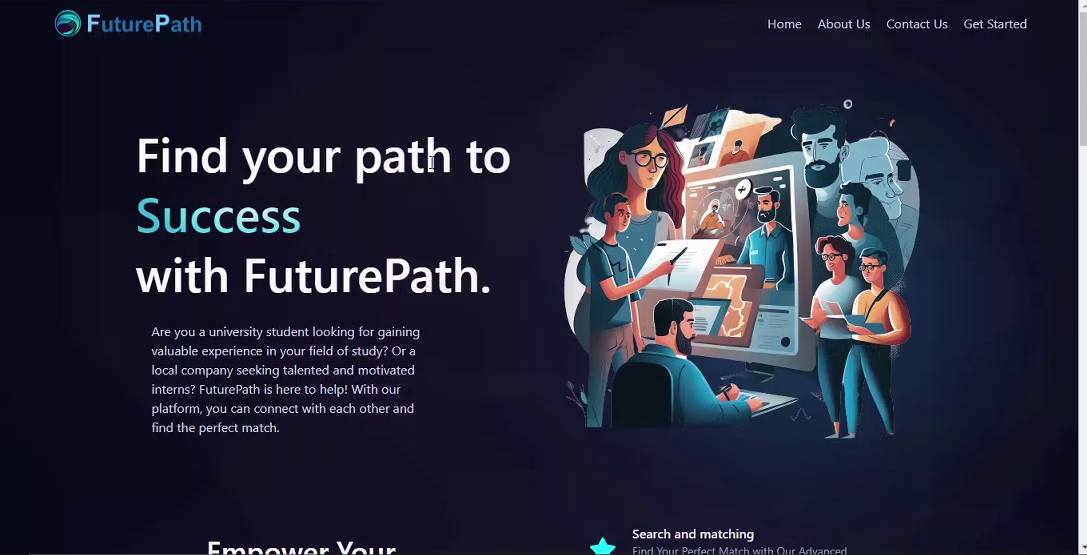
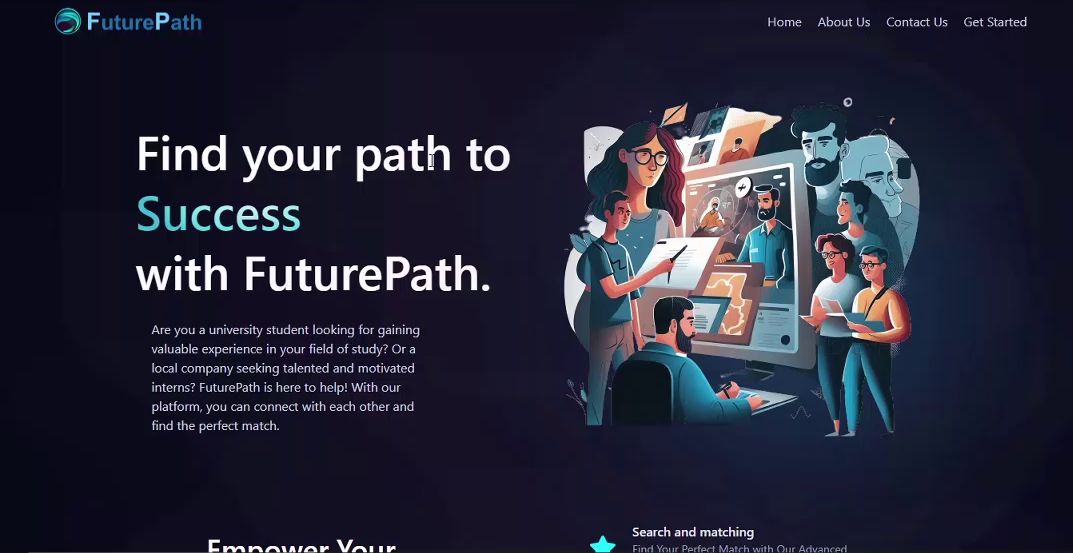
Add dark theme to the site.

diff --git a/src/components/navbar.jsx b/src/components/navbar.jsx
@@ -6,7 +6,7 @@ import assets from "../assets";
 import NavItems from "./navItems";
 import NavSocials from "./navSocials";
 
-const Navbar = () => {
+const Navbar = ({ setDarkTheme, isDarkTheme }) => {
   const [isScrolled, setIsScrolled] = useState(false);
   const [isMenuActive, setMenuActive] = useState(false);
 
@@ -27,17 +27,17 @@ const Navbar = () => {
 
   return (
     <div className="flex w-full h-full relative">
-      <dir className="absolute h-96 w-3/5 rounded-full top-5 blur-3xl bg-gradient-to-br to-lighter-gray from-white z-10 opacity-20"></dir>
+      <dir className="absolute h-96 w-3/5 rounded-full top-5 blur-3xl bg-gradient-to-br to-lighter-gray dark:to-dark-gray from-white z-10 opacity-20"></dir>
       <motion.nav
         variants={navVariants}
         initial="hidden"
         whileInView="show"
-        className={`w-full h-auto flex fixed top-0 justify-between items-center px-10 py-5 bg-dark-gray text-navy-blue font-poppins ${
+        className={`w-full h-auto flex fixed top-0 justify-between items-center px-10 py-5 bg-dark-gray dark:bg-light-blue text-navy-blue dark:text-light-gray font-poppins ${
           isScrolled && "border border-t-0 border-x-0 shadow-sm z-10"
         }`}
       >
         <Link
-          className="font-semibold hover:text-light-blue ease-in-out duration-500 hover:cursor-pointer"
+          className="font-semibold hover:text-light-blue dark:hover:text-lighter-gray ease-in-out duration-500 hover:cursor-pointer"
           to="home"
           smooth={true}
           duration={500}
@@ -45,21 +45,34 @@ const Navbar = () => {
           Chamod
         </Link>
         <NavItems classes="hidden md:flex lg:flex flex-row gap-8" />
-        <NavSocials classes="hidden md:flex lg:flex flex-row gap-10" />
+        <NavSocials
+          setDarkTheme={setDarkTheme}
+          isDarkTheme={isDarkTheme}
+          classes="hidden md:flex lg:flex flex-row gap-10"
+        />
         <div className="flex md:hidden lg:hidden">
           <img
             src={!isMenuActive ? assets.menu : assets.cross}
-            className="w-5 hover:cursor-pointer object-cover"
+            className="w-5 hover:cursor-pointer object-cover dark:hidden"
+            onClick={() => setMenuActive((prev) => !prev)}
+          />
+          <img
+            src={!isMenuActive ? assets.menuDark : assets.crossDark}
+            className="hidden w-5 hover:cursor-pointer object-cover dark:block"
             onClick={() => setMenuActive((prev) => !prev)}
           />
         </div>
         <div
           className={`${
             isMenuActive ? "flex" : "hidden"
-          } flex-col md:hidden lg:hidden absolute w-40 h-48 bg-lighter-gray top-16 right-5 rounded-md justify-between pt-5 shadow-md sidebar`}
+          } flex-col md:hidden lg:hidden absolute w-40 h-48 bg-lighter-gray dark:bg-navy-blue top-16 right-5 rounded-md justify-between pt-5 shadow-md sidebar`}
         >
           <NavItems classes="flex items-center md:hidden lg:hidden flex-col gap-3" />
-          <NavSocials classes="flex border border-x-0 border-b-0 py-3 md:hidden lg:hidden flex-row gap-10 items-center justify-center" />
+          <NavSocials
+            isDarkTheme={isDarkTheme}
+            setDarkTheme={setDarkTheme}
+            classes="flex border border-x-0 border-b-0 py-3 md:hidden lg:hidden flex-row gap-10 items-center justify-center"
+          />
         </div>
       </motion.nav>
     </div>

diff --git a/src/components/contact.jsx b/src/components/contact.jsx
@@ -50,11 +50,11 @@ const Contact = () => {
       whileInView="show"
       viewport={{ once: false, amount: 0.25 }}
       id="contact"
-      className="w-full h-auto items-center md:items-start lg:items-start flex flex-col gap-3 px-20 mt-12 font-poppins"
+      className="w-full h-auto items-center md:items-start lg:items-start flex flex-col gap-3 px-20 mt-12 font-poppins bg-lighter-gray dark:bg-navy-blue"
     >
       <motion.p
         variants={fadeIn("up", "tween", 0.1, 1)}
-        className="text-4xl md:text-5xl lg:text-5xl text-navy-blue font-semibold"
+        className="text-4xl md:text-5xl lg:text-5xl text-navy-blue dark:text-light-gray font-semibold"
       >
         contact.
       </motion.p>
@@ -62,9 +62,16 @@ const Contact = () => {
         variants={fadeIn("up", "tween", 0.2, 1)}
         className="w-full h-auto flex item center justify-center mt-5"
       >
-        <div className="flex flex-row w-full md:w-9/12 lg:w-9/12 h-80 bg-light-gray rounded-md mb-10 shadow-md">
+        <div className="flex flex-row w-full md:w-9/12 lg:w-9/12 h-80 bg-light-gray dark:bg-light-blue rounded-md mb-10 shadow-md">
           <div className="hidden md:flex lg:flex items-center justify-center h-full w-1/2 rounded-md">
-            <img src={assets.contact} className="object-cover" />
+            <img
+              src={assets.contact}
+              className="w-8/12 object-cover dark:hidden"
+            />
+            <img
+              src={assets.contactDark}
+              className="h-4/5 hidden object-cover dark:block"
+            />
           </div>
           <div className="h-full w-full md:w-1/2 lg:w-1/2 flex flex-col gap-4 items-center justify-center py-5">
             <input
@@ -75,7 +82,7 @@ const Contact = () => {
               className="w-10/12 py-3 px-5 bg-dark-gray text-lighter-gray rounded-full shadow-md font-poppins placeholder:text-lighter-gray focus:ring-blue-400"
               placeholder="Title"
             />
-            <p className="px-3 text-center font-sm italic text-red-500">
+            <p className="px-3 text-center font-sm italic text-red-500 dark:text-red-300">
               {state.errors && state.errors.title}
             </p>
             <textarea
@@ -87,7 +94,7 @@ const Contact = () => {
               className="w-10/12 py-3 px-5 bg-dark-gray text-lighter-gray rounded-2xl shadow-md font-poppins placeholder:text-lighter-gray"
               placeholder="Message"
             ></textarea>
-            <p className="px-3 text-center font-sm italic text-red-500">
+            <p className="px-3 text-center font-sm italic text-red-500 dark:text-red-300">
               {state.errors && state.errors.message}
             </p>
             <button

diff --git a/src/assets/index.js b/src/assets/index.js
@@ -5,15 +5,24 @@ import mongodb from "./images/mongo.png";
 import node from "./images/node.png";
 import chamod from "./images/chamod.png";
 import github from "./images/github.png";
+import githubDark from "./images/github-dark.png";
 import linkedin from "./images/linkedin.png";
+import linkedinDark from "./images/linkedin-dark.png";
 import menu from "./images/menu.png";
+import menuDark from "./images/menu-dark.png";
 import cross from "./images/cross.png";
+import crossDark from "./images/cross-dark.png";
 import innovative from "./images/innovative.png";
+import innovativeDark from "./images/innovative-dark.png";
 import learning from "./images/learning.png";
+import learningDark from "./images/learning-dark.png";
 import futurePath from "./images/futurePath.png";
 import code from "./images/code.png";
 import live from "./images/live.png";
 import contact from "./images/contact.png";
+import contactDark from "./images/contact-dark.png";
+import sun from "./images/sun.png";
+import moon from "./images/moon.png";
 import resume from "./documents/chamod.pdf";
 
 export default {
@@ -34,4 +43,13 @@ export default {
   live,
   contact,
   resume,
+  githubDark,
+  linkedinDark,
+  menuDark,
+  crossDark,
+  innovativeDark,
+  learningDark,
+  contactDark,
+  sun,
+  moon,
 };

diff --git a/src/components/navSocials.jsx b/src/components/navSocials.jsx
@@ -1,15 +1,34 @@
+import assets from "../assets";
 import { socialLinks } from "../constants/const";
+import { setTheme } from "../services/themeService";
 
-const NavSocials = ({ classes }) => {
+const NavSocials = ({ classes, setDarkTheme, isDarkTheme }) => {
+  const handleClick = () => {
+    setDarkTheme((prev) => !prev);
+    setTheme(isDarkTheme);
+  };
+
   return (
     <div className={classes}>
-      {socialLinks.map((item) => (
+      <button onClick={handleClick}>
         <img
-          key={item.id}
-          src={item.image}
+          src={isDarkTheme ? assets.sun : assets.moon}
           className="w-5 hover:cursor-pointer object-cover"
-          onClick={() => window.open(item.url, "_blank")}
         />
+      </button>
+      {socialLinks.map((item) => (
+        <div key={item.id}>
+          <img
+            src={item.imageLight}
+            className="w-5 hover:cursor-pointer object-cover dark:hidden"
+            onClick={() => window.open(item.url, "_blank")}
+          />
+          <img
+            src={item.imageDark}
+            className="hidden w-5 hover:cursor-pointer object-cover dark:block"
+            onClick={() => window.open(item.url, "_blank")}
+          />
+        </div>
       ))}
     </div>
   );

diff --git a/src/components/workSection.jsx b/src/components/workSection.jsx
@@ -10,17 +10,17 @@ const WorkSection = () => {
       whileInView="show"
       viewport={{ once: false, amount: 0.25 }}
       id="work"
-      className="w-full h-auto items-center md:items-start lg:items-start flex flex-col gap-3 px-20 pt-10 font-poppins"
+      className="w-full h-auto items-center md:items-start lg:items-start flex flex-col gap-3 px-20 pt-10 font-poppins bg-lighter-gray dark:bg-navy-blue"
     >
       <motion.p
         variants={fadeIn("up", "tween", 0.1, 1)}
-        className="text-4xl md:text-5xl lg:text-5xl text-navy-blue font-semibold"
+        className="text-4xl md:text-5xl lg:text-5xl text-navy-blue dark:text-light-gray font-semibold"
       >
         work.
       </motion.p>
       <motion.p
         variants={fadeIn("up", "tween", 0.2, 1)}
-        className="text-lg text-center md:text-start lg:text-start md:text-lg lg:text-lg text-navy-blue md:w-9/12 lg:w-9/12"
+        className="text-lg text-center md:text-start lg:text-start md:text-lg lg:text-lg text-navy-blue dark:text-light-gray md:w-9/12 lg:w-9/12"
       >
         The below projects showcase my expertise as a Full Stack Web Developer.
         With captivating designs and robust functionality, I consistently exceed

diff --git a/src/components/about.jsx b/src/components/about.jsx
@@ -10,17 +10,17 @@ const About = () => {
       whileInView="show"
       viewport={{ once: false, amount: 0.25 }}
       id="about"
-      className="w-full h-auto items-center md:items-start lg:items-start flex flex-col gap-3 px-20 mt-5 font-poppins"
+      className="w-full h-auto items-center md:items-start lg:items-start flex flex-col gap-3 px-20 mt-5 font-poppins bg-lighter-gray dark:bg-navy-blue"
     >
       <motion.p
         variants={fadeIn("up", "tween", 0.1, 1)}
-        className="text-4xl md:text-5xl lg:text-5xl text-navy-blue font-semibold"
+        className="text-4xl md:text-5xl lg:text-5xl text-navy-blue dark:text-light-gray font-semibold"
       >
         about.
       </motion.p>
       <motion.p
         variants={fadeIn("up", "tween", 0.2, 1)}
-        className="text-lg text-center md:text-start lg:text-start md:text-lg lg:text-lg text-navy-blue md:w-9/12 lg:w-9/12"
+        className="text-lg text-center md:text-start lg:text-start md:text-lg lg:text-lg text-navy-blue dark:text-light-gray md:w-9/12 lg:w-9/12"
       >
         I'm pursuing a BICT degree in software systems at the University of
         Kelaniya, expanding my knowledge of software development principles.

diff --git a/src/components/aboutItems.jsx b/src/components/aboutItems.jsx
@@ -9,7 +9,7 @@ const AboutItems = () => {
       initial="hidden"
       whileInView="show"
       viewport={{ once: false, amount: 0.25 }}
-      className="flex flex-col text-navy-blue font-poppins gap-2 md:gap-8 lg:gap-0"
+      className="flex flex-col text-navy-blue dark:text-light-gray font-poppins gap-2 md:gap-8 lg:gap-0"
     >
       {aboutConsts.map((item, index) => (
         <motion.div
@@ -17,7 +17,14 @@ const AboutItems = () => {
           key={item.id}
           className="flex flex-col md:flex-row lg:flex-row items-center"
         >
-          <img src={item.image} className="w-60 object-cover" />
+          <img
+            src={item.imageLight}
+            className="w-60 object-cover dark:hidden"
+          />
+          <img
+            src={item.imageDark}
+            className="hidden w-36 object-cover opacity-90 dark:block"
+          />
           <ul className="flex flex-col items-center md:items-start lg:items-start gap-3">
             <li className="text-xl font-semibold list-disc list-inside text-center md:text-start lg:text-start w-11/12 md:w-auto lg:w-auto">
               {item.title}

diff --git a/src/components/heroSection.jsx b/src/components/heroSection.jsx
@@ -23,7 +23,7 @@ const HeroSection = () => {
       whileInView="show"
       viewport={{ once: true }}
       id="home"
-      className="flex flex-col md:flex-row lg:flex-row justify-between items-center w-full h-auto bg-dark-gray text-navy-blue px-10 pt-16"
+      className="flex flex-col md:flex-row lg:flex-row justify-between items-center w-full h-auto bg-dark-gray dark:bg-light-blue text-navy-blue dark:text-light-gray px-10 pt-16"
     >
       <div className="w-8/12 h-auto flex flex-col justify-center items-center md:items-start lg:items-start gap-5">
         <div className="flex flex-col mt-5 md:mt-5 lg:mt-0 gap-1 w-auto md:pl-14 lg:pl-14">
@@ -59,7 +59,7 @@ const HeroSection = () => {
           <motion.button
             variants={fadeIn("up", "tween", 0.1, 1)}
             onClick={handleClick}
-            className="font-poppins font-semibold hover:bg-lighter-gray bg-light-gray rounded-full px-5 py-2 shadow-md"
+            className="font-poppins font-semibold hover:bg-lighter-gray bg-light-gray text-navy-blue rounded-full px-5 py-2 shadow-md"
           >
             Resume
           </motion.button>

diff --git a/src/constants/const.js b/src/constants/const.js
@@ -10,6 +10,10 @@ const {
   innovative,
   learning,
   futurePath,
+  githubDark,
+  linkedinDark,
+  innovativeDark,
+  learningDark,
 } = assets;
 
 const navItems = [
@@ -27,10 +31,16 @@ export const technologies = [
 ];
 
 export const socialLinks = [
-  { id: 0, image: github, url: "https://github.com/ADCdananjaya" },
+  {
+    id: 0,
+    imageLight: github,
+    imageDark: githubDark,
+    url: "https://github.com/ADCdananjaya",
+  },
   {
     id: 1,
-    image: linkedin,
+    imageLight: linkedin,
+    imageDark: linkedinDark,
     url: "https://www.linkedin.com/in/chamod-dananjaya-b8ab6b211/",
   },
 ];
@@ -38,7 +48,8 @@ export const socialLinks = [
 export const aboutConsts = [
   {
     id: 0,
-    image: innovative,
+    imageLight: innovative,
+    imageDark: innovativeDark,
     title: "Passionate about Building Innovative Web Solutions",
     descriptions: [
       {
@@ -60,7 +71,8 @@ export const aboutConsts = [
   },
   {
     id: 1,
-    image: learning,
+    imageLight: learning,
+    imageDark: learningDark,
     title: "Continuous Learning and Growth",
     descriptions: [
       {

diff --git a/src/App.jsx b/src/App.jsx
@@ -1,14 +1,28 @@
+import { useEffect, useState } from "react";
 import components from "./components/index";
+import { getTheme } from "./services/themeService";
 
 function App() {
+  const [isDarkTheme, setDarkTheme] = useState(true);
+
+  useEffect(() => {
+    const isDark = getTheme();
+    setDarkTheme(isDark);
+  }, []);
+
   return (
-    <div className="bg-lighter-gray">
-      <components.Navbar />
-      <components.HeroSection />
-      <components.About />
-      <components.WorkSection />
-      <components.Contact />
-      <components.Footer />
+    <div className={isDarkTheme ? `dark` : ""}>
+      <div className="bg-lighter-gray dark:bg-navy-blue">
+        <components.Navbar
+          setDarkTheme={setDarkTheme}
+          isDarkTheme={isDarkTheme}
+        />
+        <components.HeroSection />
+        <components.About />
+        <components.WorkSection />
+        <components.Contact />
+        <components.Footer />
+      </div>
     </div>
   );
 }

diff --git a/src/components/workItems.jsx b/src/components/workItems.jsx
@@ -10,7 +10,7 @@ const WorkItems = () => {
         <motion.div
           variants={fadeIn("right", "spring", (index + 1) * 0.5, 0.75)}
           key={item.id}
-          className="group w-80 md:w-82 lg:w-82 h-auto bg-light-gray hover:shadow-lg shadow-md py-3 rounded-md flex flex-col px-5 text-navy-blue font-poppins"
+          className="group w-80 md:w-82 lg:w-82 h-auto bg-light-gray dark:bg-light-blue hover:shadow-lg shadow-md py-3 rounded-md flex flex-col px-5 text-navy-blue dark:text-light-gray font-poppins"
         >
           <div className="relative flex items-center justify-center">
             <img

diff --git a/src/components/footer.jsx b/src/components/footer.jsx
@@ -7,7 +7,7 @@ const Footer = () => {
       variants={footerVariants}
       initial="hidden"
       whileInView="show"
-      className="bg-light-gray h-auto w-full py-5 flex items-center justify-center text-navy-blue font-semibold text-center px-8"
+      className="bg-light-gray dark:bg-light-blue h-auto w-full py-5 flex items-center justify-center text-navy-blue dark:text-light-gray font-semibold text-center px-8"
     >
       © 2023 Chamod Dananjaya | Full Stack Web Developer | Sri Lanka
     </motion.div>
